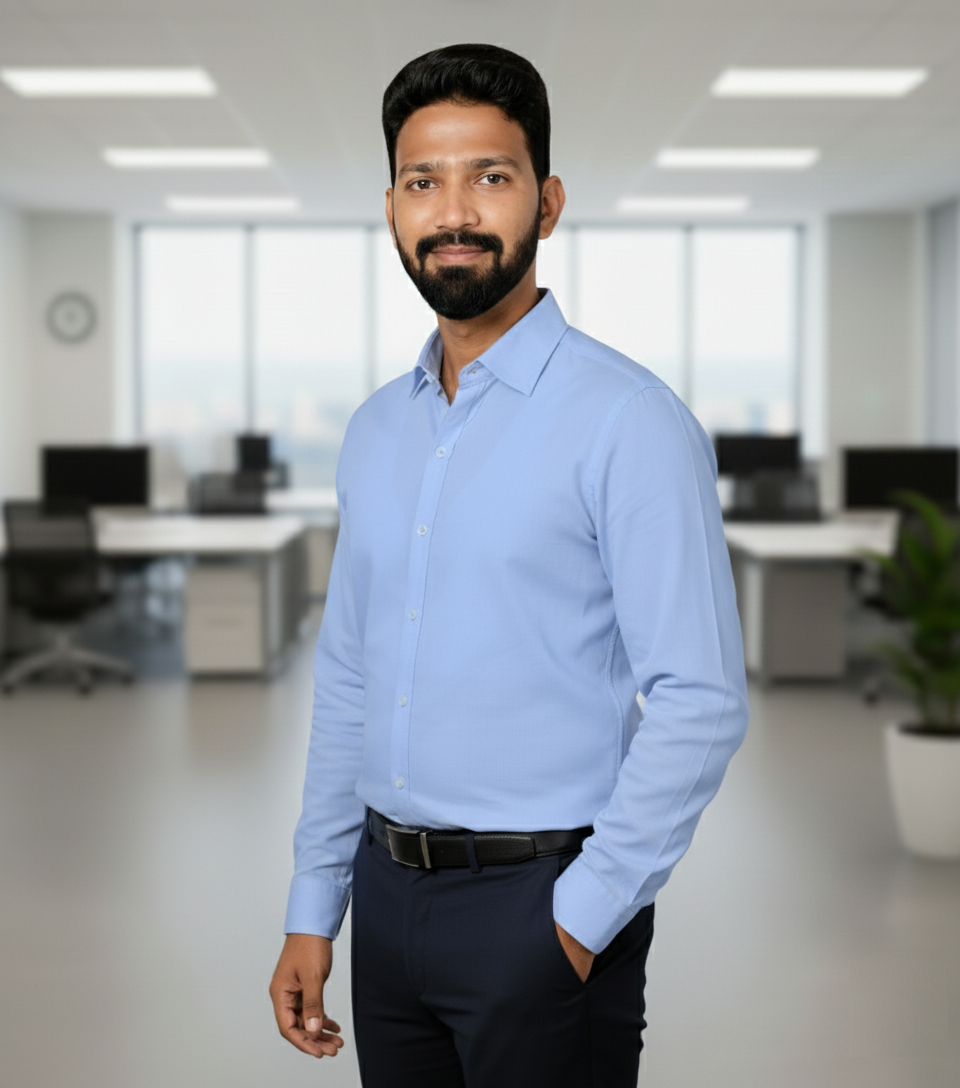
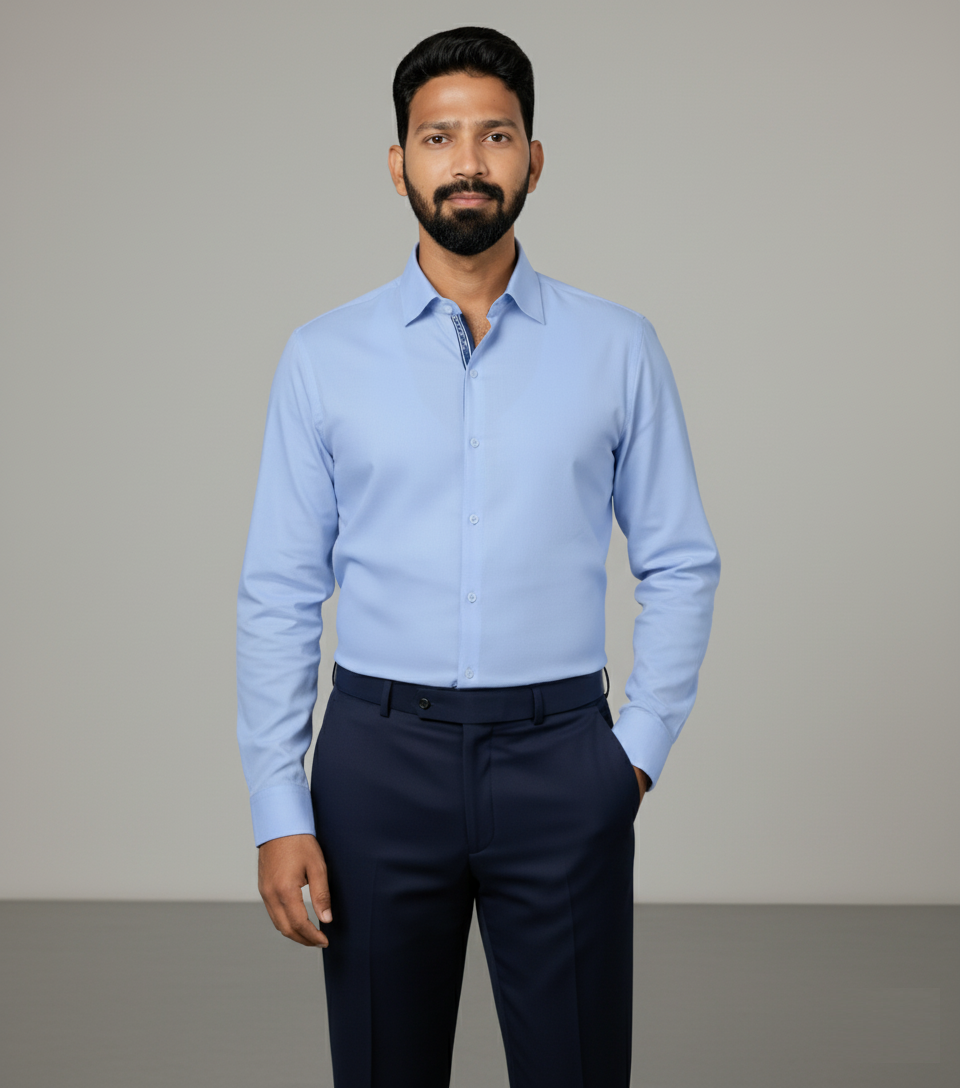
new emp added

diff --git a/index.html b/index.html
@@ -42,7 +42,7 @@
   <div id="particles-js"></div>
   <div class="content">
     <h2>Hi There,<br/> I'm<span> Srinivas Gajula</span></h2>
-    <p>Senior Data Scientist / AI Engineer <span class="typing-text"></span></p>
+    <p>Lead Software Engineer/AI Engineer <span class="typing-text"></span></p>
     <a href="#about" class="btn"><span>About Me</span><i class="fas fa-arrow-circle-down"></i></a>
     <div class="socials">
       <ul class="social-icons">
@@ -65,14 +65,18 @@
     </div>
     <div class="content">
       <h3>I'm <span> Srinivas Gajula</span></h3>
-      <span class="tag">Senior Data Scientist & AI Engineer</span>
-      <p>I am a Data Scientist and AI Engineer with 5.5+ years of experience delivering data-driven solutions across various domains. My expertise includes machine learning, deep learning, time series forecasting, and big data analytics. I specialize in Generative AI, prompt engineering, and natural language processing (NLP) using cutting-edge models like GPT. I have hands-on experience integrating LangChain, OpenAI APIs, and deploying LLM-based solutions in production. I am skilled in building scalable AI pipelines using cloud platforms (AWS, Azure, GCP) and modern MLOps tools.</p>
+      <span class="tag">Lead Software Engineer & AI/ML Engineer</span>
+      <p> I have 7 years of experience in designing and developing scalable enterprise applications using Java, Spring Boot, Microservices, REST APIs, AWS, and Python. Experienced in building cloud-native, high-performance solutions while integrating AI, Machine Learning, and Generative AI to solve complex business challenges.
+
+My expertise spans enterprise backend development, distributed systems, cloud technologies, and intelligent applications powered by Large Language Models (LLMs), Natural Language Processing (NLP), and Machine Learning. I enjoy building scalable software that combines modern backend engineering with data-driven intelligence.
+
+Throughout my career, I have delivered enterprise solutions across FinTech & Healthcare and Other domains, developing secure microservices, cloud applications, predictive analytics models, and AI-powered automation that improve operational efficiency and business decision-making.
 
       <div class="box-container">
         <div class="box">
-          <p><span>E-mail:</span> [email redacted]</p>
+          <p><span>E-mail:</span> [email redacted]</p>
           <p><span>Place:</span> Kukatpally, Hyderabad, Telangana - 500072</p>
-          <p><span>Mobile:</span> +91 9848 44 33 00</p>
+
         </div>
       </div>
       <div class="resumebtn">
@@ -90,8 +94,8 @@
       <div class="content">
         <h3>M.Sc | Data Science</h3>
         <p>AMITY University - Jaipur, IN</p>
-        <h4>Expected Graduation: May 2026</h4>
-        <p>Pursuing online</p>
+        <h4>2024 - 2026</h4>
+        <p>Cumulative GPA: 8.3/10</p>
       </div>
     </div>
 
@@ -121,35 +125,51 @@
   <h2 class="heading"><i class="fas fa-briefcase"></i> Experience </h2>
   <div class="timeline">
 
+    <div class="container right">
+        <div class="content">
+            <div class="tag"><h2>Virtusa</h2></div>
+            <div class="desc">
+                <h3>Lead Software Engineer</h3>
+                <p>June 2026 - Present</p>
+                <ul>
+                  <li>Architected and deployed a highly scalable suite of Java microservices using Spring Boot and REST APIs to process high-throughput financial transactions, reducing API latency by 35% and ensuring 99.99% uptime for core banking operations.</li>
+                  <li>Pioneered the integration of Spring AI and Generative AI models within existing Spring Boot microservices to automate complex risk assessments and fraud anomaly detection, cutting processing times by 50% and mitigating over $1.2M in potential quarterly losses.</li>
+                  <li>Directed a cross-functional engineering team to build a next-generation payments gateway, delivering an in-depth technical roadmap to senior stakeholders that accelerated integration timelines for 50+ institutional fintech clients and drove a 30% increase in revenue within two quarters.</li>
+                </ul>
+                <p><b>Skills:</b> Java · Python · Microservices · Spring Boot · Machine Learning · Deep Learning · REST APIs · Generative AI · </p>
+            </div>
+        </div>
+    </div>
+
     <div class="container left">
         <div class="content">
-            <div class="tag"><h2>TATWA Infocom Private Limited</h2></div>
+            <div class="tag"><h2>TATWA Infocom </h2></div>
             <div class="desc">
-                <h3>Data Science & Machine Learning Analyst, Securities Division</h3>
-                <p>June 2021 - Present</p>
+                <h3>Data Science & Machine Learning Analyst</h3>
+                <p>July 2023 - June 2026</p>
                 <ul>
                   <li>Utilized Python to implement unsupervised machine learning techniques for time series anomaly detection on 3TB of unstructured data, which reduced total process time by 20%.</li>
                   <li>Wrangled 10TB of trading data stored in Hadoop distributed file system using Scala to remodel and visualize 16 previously inaccessible datasets to allow 500+ end clients to track impact of trades on liquidity.</li>
                   <li>Compiled an in-depth executive summary for the global head of the team, outlining a strategic value proposition that drove a 25% growth in client engagement within one quarter following implementation.</li>
                 </ul>
-                <p><b>Skills</b>: Python (Programming Language) · Data Science · Machine Learning · Deep Learning · Object-Oriented Programming (OOP) · Statistics · Scala · Hadoop</p>
+                <p><b>Skills:</b> Python · Data Science · Machine Learning · Deep Learning · NLP · Statistics · Scala · Hadoop</p>
             </div>
         </div>
     </div>
   
     <div class="container right">
         <div class="content">
-            <div class="tag"><h2>Kom Info Solutions Private Limited</h2></div>
+            <div class="tag"><h2>CBIZ India </h2></div>
             <div class="desc">
-                <h3>Data Analyst</h3>
-                <p>April 2019 - May 2021</p>
+                <h3>Software Engineer</h3>
+                <p>April 2019 - June 2023</p>
                 <ul>
                   <li>Led a project to analyze 5TB of retail and financial data using Python and SQL, resulting in a 15% improvement in operational efficiency by optimizing key business processes.</li>
                   <li>Developed interactive dashboards in Microsoft Power BI and Tableau, enabling 300+ stakeholders to visualize and track KPIs in real-time, significantly enhancing data-driven decision-making.</li>
                   <li>Streamlined data extraction and transformation processes for large datasets in PostgreSQL, reducing data processing time by 25% and enabling faster access to critical business insights.</li>
                   <li>Presented findings to senior management, providing data-backed recommendations that led to a 10% increase in overall business performance.</li>
                 </ul>
-                <p><b>Skills</b>: Python (Programming Language) · Data Science · Machine Learning · SQL · Power BI · Tableau · PostgreSQL · EDA</p>
+                <p><b>Skills:</b> Python · Data analytics · EDA · SQL/MySql · Statistical Analysis · Power BI · Tableau · PostgreSQL </p>
             </div>
         </div>
     </div>
@@ -181,44 +201,35 @@
     <div class="row">
 
       <div class="bar"><div class="info"><span>Python</span></div></div>
-      <div class="bar"><div class="info"><span>R</span></div></div>
+      <div class="bar"><div class="info"><span>Java</span></div></div>
       <div class="bar"><div class="info"><span>SQL</span></div></div>
 
-      <div class="bar"><div class="info"><span>Spark</span></div></div>
-      <div class="bar"><div class="info"><span>Hadoop</span></div></div>
+      <div class="bar"><div class="info"><span>Microservices</span></div></div>
+       <div class="bar"><div class="info"><span>Spring Boot</span></div></div>
       <div class="bar"><div class="info"><span>TensorFlow</span></div></div>
       <div class="bar"><div class="info"><span>PyTorch</span></div></div>
-      <div class="bar"><div class="info"><span>Keras</span></div></div>
       <div class="bar"><div class="info"><span>Scikit-learn</span></div></div>
+      <div class="bar"><div class="info"><span>Spark</span></div></div>
 
       <div class="bar"><div class="info"><span>AWS (S3, EC2, SageMaker)</span></div></div>
       <div class="bar"><div class="info"><span>Microsoft Azure</span></div></div>
-      <div class="bar"><div class="info"><span>GCP</span></div></div>
+      <div class="bar"><div class="info"><span>REST APIs</span></div></div>
       <div class="bar"><div class="info"><span>Docker</span></div></div>
       <div class="bar"><div class="info"><span>Kubernetes</span></div></div>
       <div class="bar"><div class="info"><span>MLflow</span></div></div>
       <div class="bar"><div class="info"><span>Jenkins</span></div></div>
-      <div class="bar"><div class="info"><span>Kubeflow</span></div></div>
 
       <div class="bar"><div class="info"><span>OpenAI GPT-3.5 Turbo</span></div></div>
       <div class="bar"><div class="info"><span>LangChain</span></div></div>
       <div class="bar"><div class="info"><span>Hugging Face Transformers</span></div></div>
-      <div class="bar"><div class="info"><span>Prompt Engineering</span></div></div>
-      <div class="bar"><div class="info"><span>BERT</span></div></div>
-      <div class="bar"><div class="info"><span>Text Classification</span></div></div>
-      <div class="bar"><div class="info"><span>NER</span></div></div>
+     
 
       <div class="bar"><div class="info"><span>Power BI</span></div></div>
       <div class="bar"><div class="info"><span>Tableau</span></div></div>
       <div class="bar"><div class="info"><span>Excel (Advanced)</span></div></div>
 
-      <div class="bar"><div class="info"><span>REST APIs</span></div></div>
-      <div class="bar"><div class="info"><span>Git</span></div></div>
-      <div class="bar"><div class="info"><span>Object-Oriented Design (OOD)</span></div></div>
-      <div class="bar"><div class="info"><span>ETL pipelines</span></div></div>
-      <div class="bar"><div class="info"><span>A/B Testing</span></div></div>
+      <div class="bar"><div class="info"><span>GIT</span></div></div>
       <div class="bar"><div class="info"><span>Time Series Analysis</span></div></div>
-      <div class="bar"><div class="info"><span>Hypothesis Testing</span></div></div>
     </div>
   </div>
 </section>